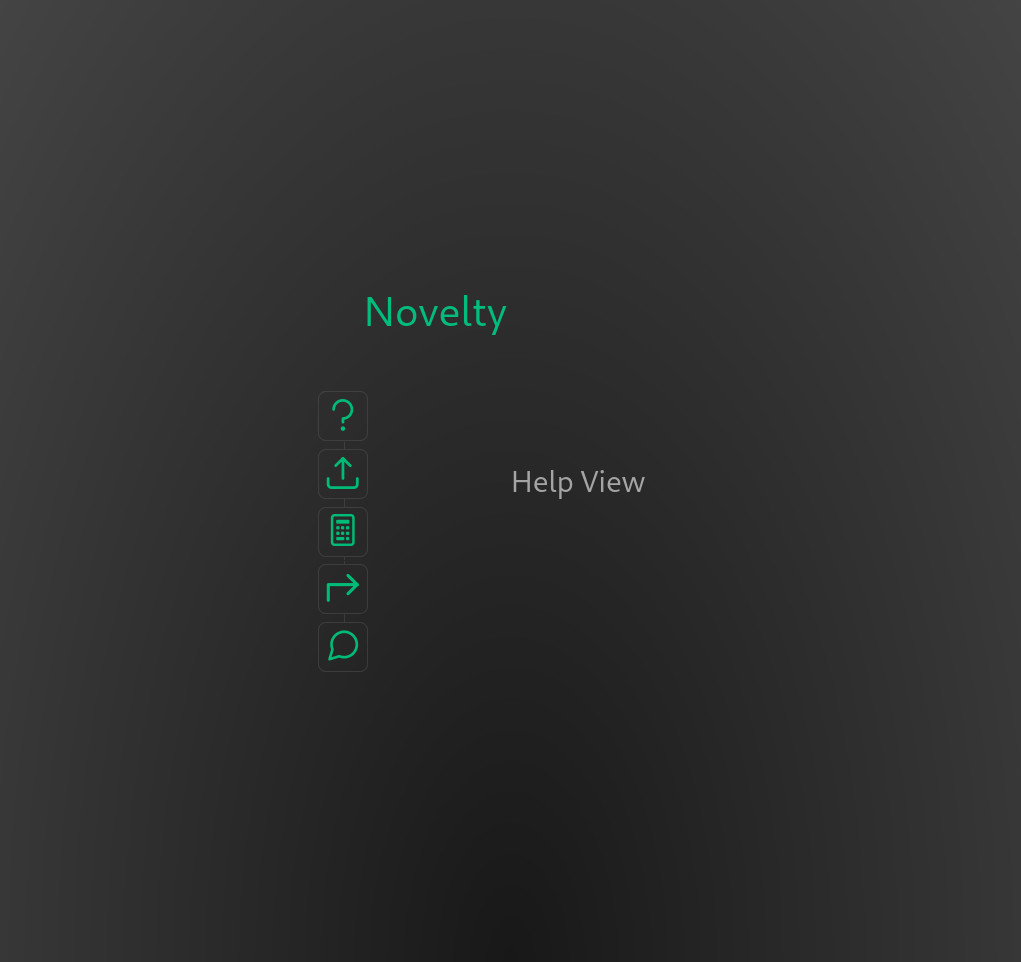
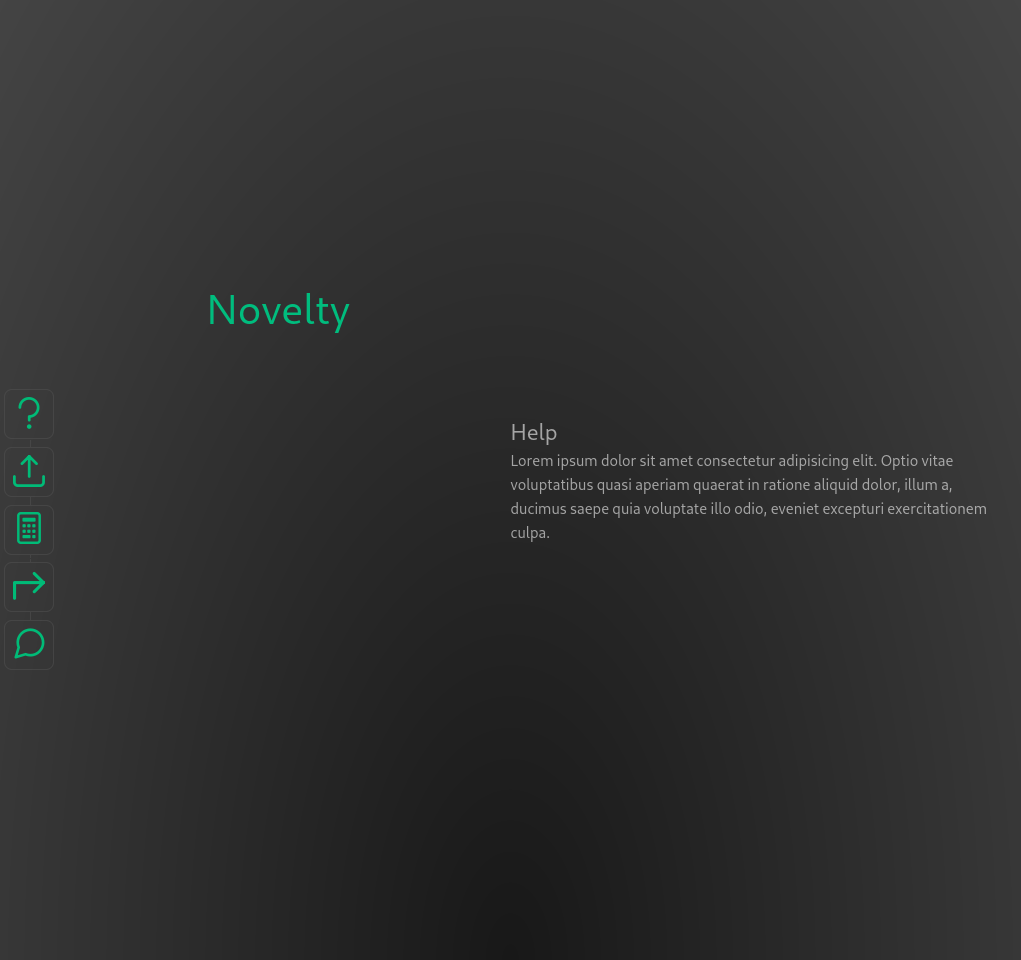
some improvements

diff --git a/examples/likelihood/templates/src/views/UploadView.vue b/examples/likelihood/templates/src/views/UploadView.vue
@@ -1,12 +1,17 @@
 <template>
-  <div class="about">
-    <h1>Upload View</h1>
+  <div class="right-view">
+    <section>
+      <h1>Upload</h1>
+      <p>Lorem ipsum dolor sit amet consectetur adipisicing elit. Perspiciatis alias inventore, ipsa praesentium neque
+        fugit laudantium quam cupiditate consequatur eaque ipsum ut aliquid blanditiis, animi accusamus repellendus.
+        Laboriosam, deleniti? Libero?</p>
+    </section>
   </div>
 </template>
 
 <style>
 @media (min-width: 1024px) {
-  .about {
+  .right-view {
     min-height: 100vh;
     display: flex;
     align-items: center;

diff --git a/examples/likelihood/templates/src/views/FeedbackView.vue b/examples/likelihood/templates/src/views/FeedbackView.vue
@@ -1,12 +1,16 @@
 <template>
-  <div class="about">
-    <h1>Feedback View</h1>
+  <div class="right-view">
+    <section>
+      <h1>Feedback</h1>
+      <p>Lorem ipsum dolor sit amet consectetur adipisicing elit. Soluta, voluptatum. Consequatur, natus. Nesciunt quis
+        consectetur, in, error nisi nam alias ex obcaecati neque facere cumque perspiciatis ipsa saepe, soluta amet!</p>
+    </section>
   </div>
 </template>
 
 <style>
 @media (min-width: 1024px) {
-  .about {
+  .right-view {
     min-height: 100vh;
     display: flex;
     align-items: center;

diff --git a/examples/likelihood/templates/src/views/HelpView.vue b/examples/likelihood/templates/src/views/HelpView.vue
@@ -1,12 +1,17 @@
 <template>
-  <div class="about">
-    <h1>Help View</h1>
+  <div class="right-view">
+    <section>
+      <h1>Help</h1>
+      <p>Lorem ipsum dolor sit amet consectetur adipisicing elit. Optio vitae voluptatibus quasi aperiam quaerat in
+        ratione aliquid dolor, illum a, ducimus saepe quia voluptate illo odio, eveniet excepturi exercitationem culpa.
+      </p>
+    </section>
   </div>
 </template>
 
 <style>
 @media (min-width: 1024px) {
-  .about {
+  .right-view {
     min-height: 100vh;
     display: flex;
     align-items: center;

diff --git a/examples/likelihood/templates/src/views/PostView.vue b/examples/likelihood/templates/src/views/PostView.vue
@@ -1,12 +1,17 @@
 <template>
-  <div class="about">
-    <h1>Post View</h1>
+  <div class="right-view">
+    <section>
+      <h1>Post</h1>
+      <p>Lorem ipsum dolor sit amet consectetur adipisicing elit. Eum quibusdam perspiciatis eos officia qui atque,
+        ratione vitae. Odit facilis dolores ea ad molestias, sapiente, repudiandae laudantium labore saepe, eius unde.
+      </p>
+    </section>
   </div>
 </template>
 
 <style>
 @media (min-width: 1024px) {
-  .about {
+  .right-view {
     min-height: 100vh;
     display: flex;
     align-items: center;

diff --git a/examples/likelihood/templates/src/views/EvaluateView.vue b/examples/likelihood/templates/src/views/EvaluateView.vue
@@ -1,12 +1,16 @@
 <template>
-  <div class="about">
-    <h1>Evaluate View</h1>
+  <div class="right-view">
+    <section>
+      <h1>Evaluate</h1>
+      <p>Lorem ipsum dolor sit amet consectetur adipisicing elit. Autem ab quo, quibusdam hic cum quis excepturi fuga,
+        et exercitationem qui eius modi, molestiae ducimus numquam quidem iusto labore dignissimos sapiente.</p>
+    </section>
   </div>
 </template>
 
 <style>
 @media (min-width: 1024px) {
-  .about {
+  .right-view {
     min-height: 100vh;
     display: flex;
     align-items: center;

diff --git a/examples/likelihood/templates/src/App.vue b/examples/likelihood/templates/src/App.vue
@@ -2,6 +2,11 @@
 import { RouterView } from 'vue-router'
 import WelcomeMessage from './components/WelcomeMessage.vue'
 import NavView from './components/NavView.vue'
+
+// workaround to avoid a 404 response along with using the redirection set in the .htaccess file
+window.addEventListener('beforeunload', (event) => {
+  event.preventDefault()
+})
 </script>
 
 <template>

diff --git a/examples/likelihood/templates/src/assets/main.css b/examples/likelihood/templates/src/assets/main.css
@@ -5,6 +5,7 @@
   margin: 0 auto;
   padding: 2rem;
   font-weight: normal;
+  /* gap: 10rem; */
 }
 
 a,
